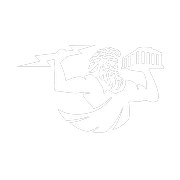
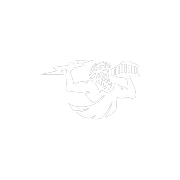
fix faviconnn

diff --git a/src/app/layout.tsx b/src/app/layout.tsx
@@ -27,11 +27,11 @@ export const metadata: Metadata = {
   ),
   icons: {
     icon: [
-      { url: "/favicon.ico", sizes: "any" },
-      { url: "/favicon-32.png", sizes: "32x32", type: "image/png" },
-      { url: "/icon-192.png", sizes: "192x192", type: "image/png" },
+      { url: "/favicon.ico?v=3", sizes: "any" },
+      { url: "/favicon-32.png?v=3", sizes: "32x32", type: "image/png" },
+      { url: "/icon-192.png?v=3", sizes: "192x192", type: "image/png" },
     ],
-    apple: [{ url: "/icon-192.png", sizes: "180x180", type: "image/png" }],
+    apple: [{ url: "/icon-192.png?v=3", sizes: "180x180", type: "image/png" }],
   },
   openGraph: {
     title: "ZEUS",

diff --git a/scripts/generate-favicons.py b/scripts/generate-favicons.py
@@ -83,16 +83,20 @@ def main() -> None:
     bust = full.crop((0, 0, int(full.width * 0.68), full.height))
     bust = bust.crop(content_bbox(bust, pad=12))
 
-    white_on_transparent(full, 512, 0.08).save(APP / "icon.png", "PNG", optimize=True)
-    white_on_transparent(full, 180, 0.08).save(APP / "apple-icon.png", "PNG", optimize=True)
-    white_on_transparent(full, 192, 0.08).save(PUBLIC / "icon-192.png", "PNG", optimize=True)
-    white_on_transparent(full, 512, 0.08).save(PUBLIC / "icon-512.png", "PNG", optimize=True)
+    # Extra padding so the mark reads smaller/cleaner in browser tabs.
+    pad_large = 0.22
+    pad_small = 0.28
+
+    white_on_transparent(full, 512, pad_large).save(APP / "icon.png", "PNG", optimize=True)
+    white_on_transparent(full, 180, pad_large).save(APP / "apple-icon.png", "PNG", optimize=True)
+    white_on_transparent(full, 192, pad_large).save(PUBLIC / "icon-192.png", "PNG", optimize=True)
+    white_on_transparent(full, 512, pad_large).save(PUBLIC / "icon-512.png", "PNG", optimize=True)
 
     for size, name in ((16, "favicon-16.png"), (32, "favicon-32.png"), (48, "favicon-48.png")):
-        white_on_transparent(bust, size, 0.06).save(PUBLIC / name, "PNG", optimize=True)
+        white_on_transparent(bust, size, pad_small).save(PUBLIC / name, "PNG", optimize=True)
 
     (PUBLIC / "favicon.ico").write_bytes(
-        ico_bytes([white_on_transparent(bust, size, 0.06) for size in (16, 32, 48)])
+        ico_bytes([white_on_transparent(bust, size, pad_small) for size in (16, 32, 48)])
     )
 
     app_ico = APP / "favicon.ico"
